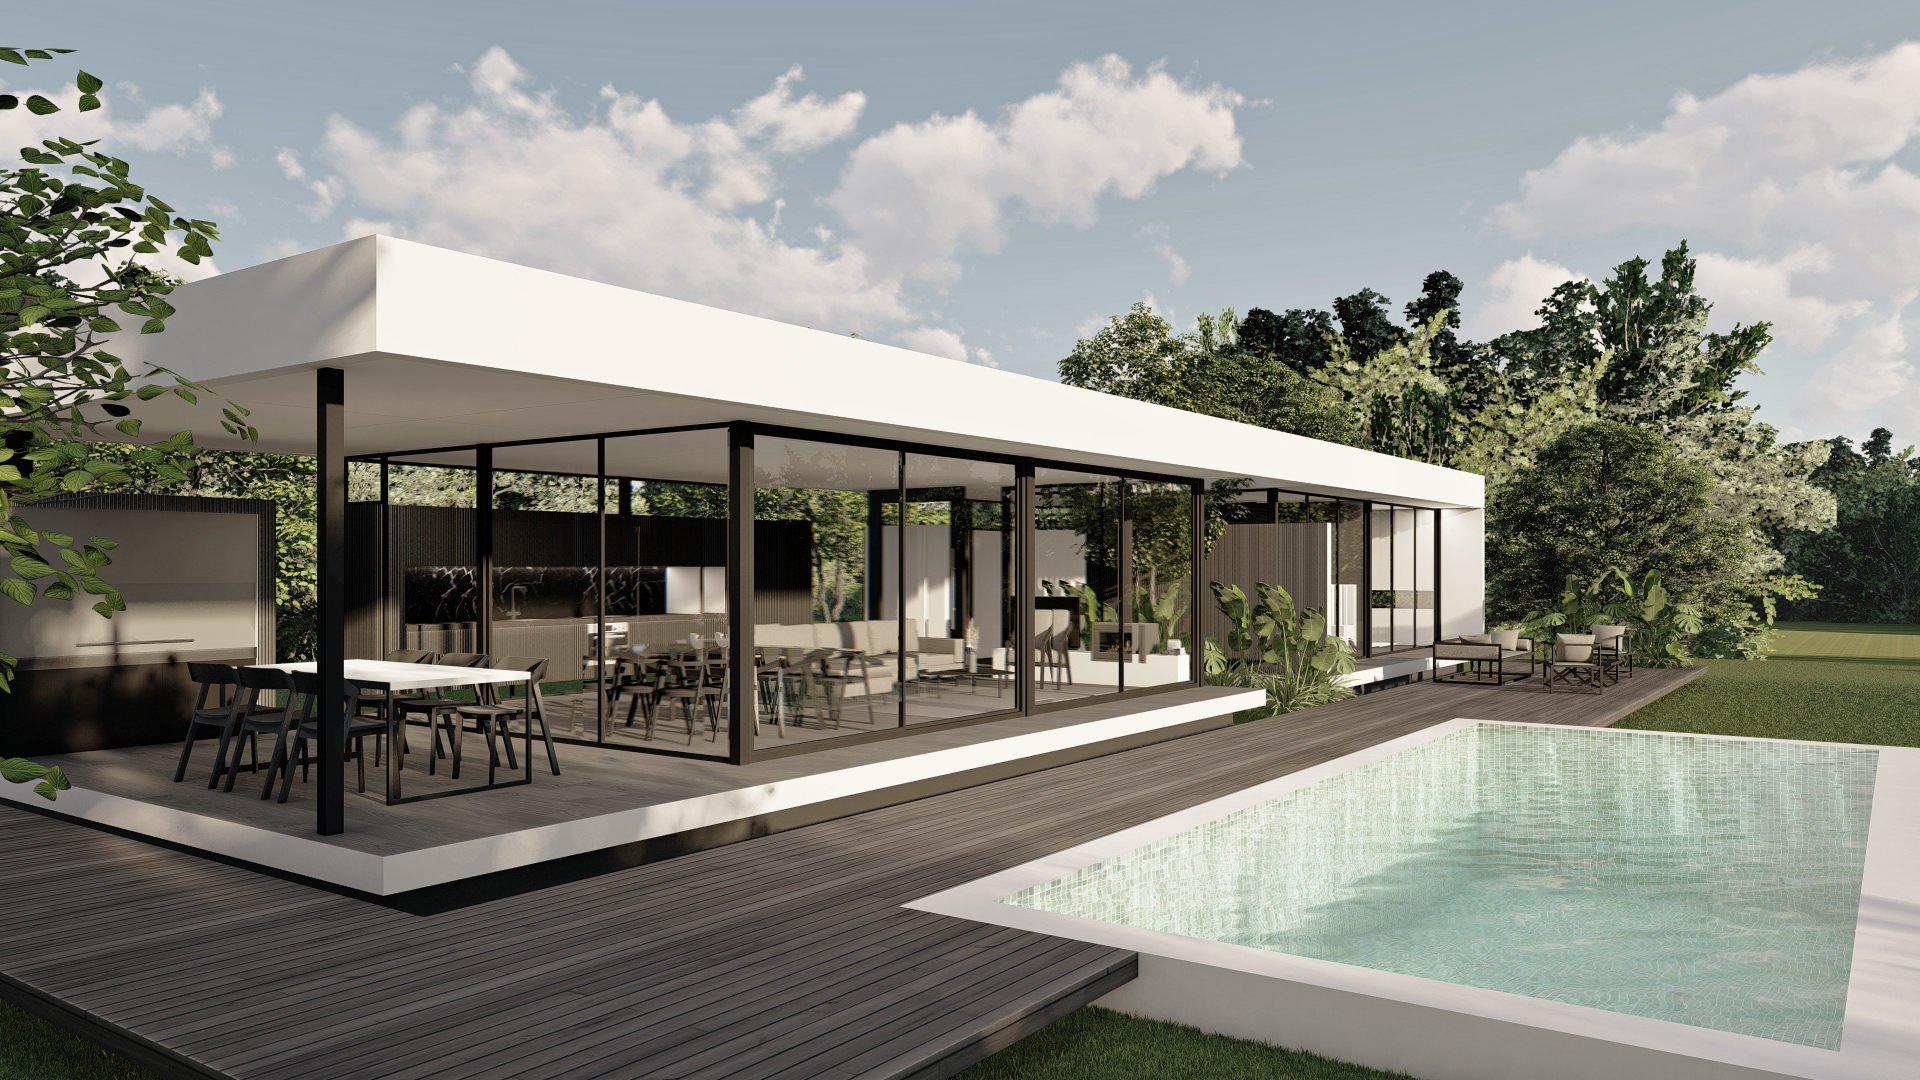
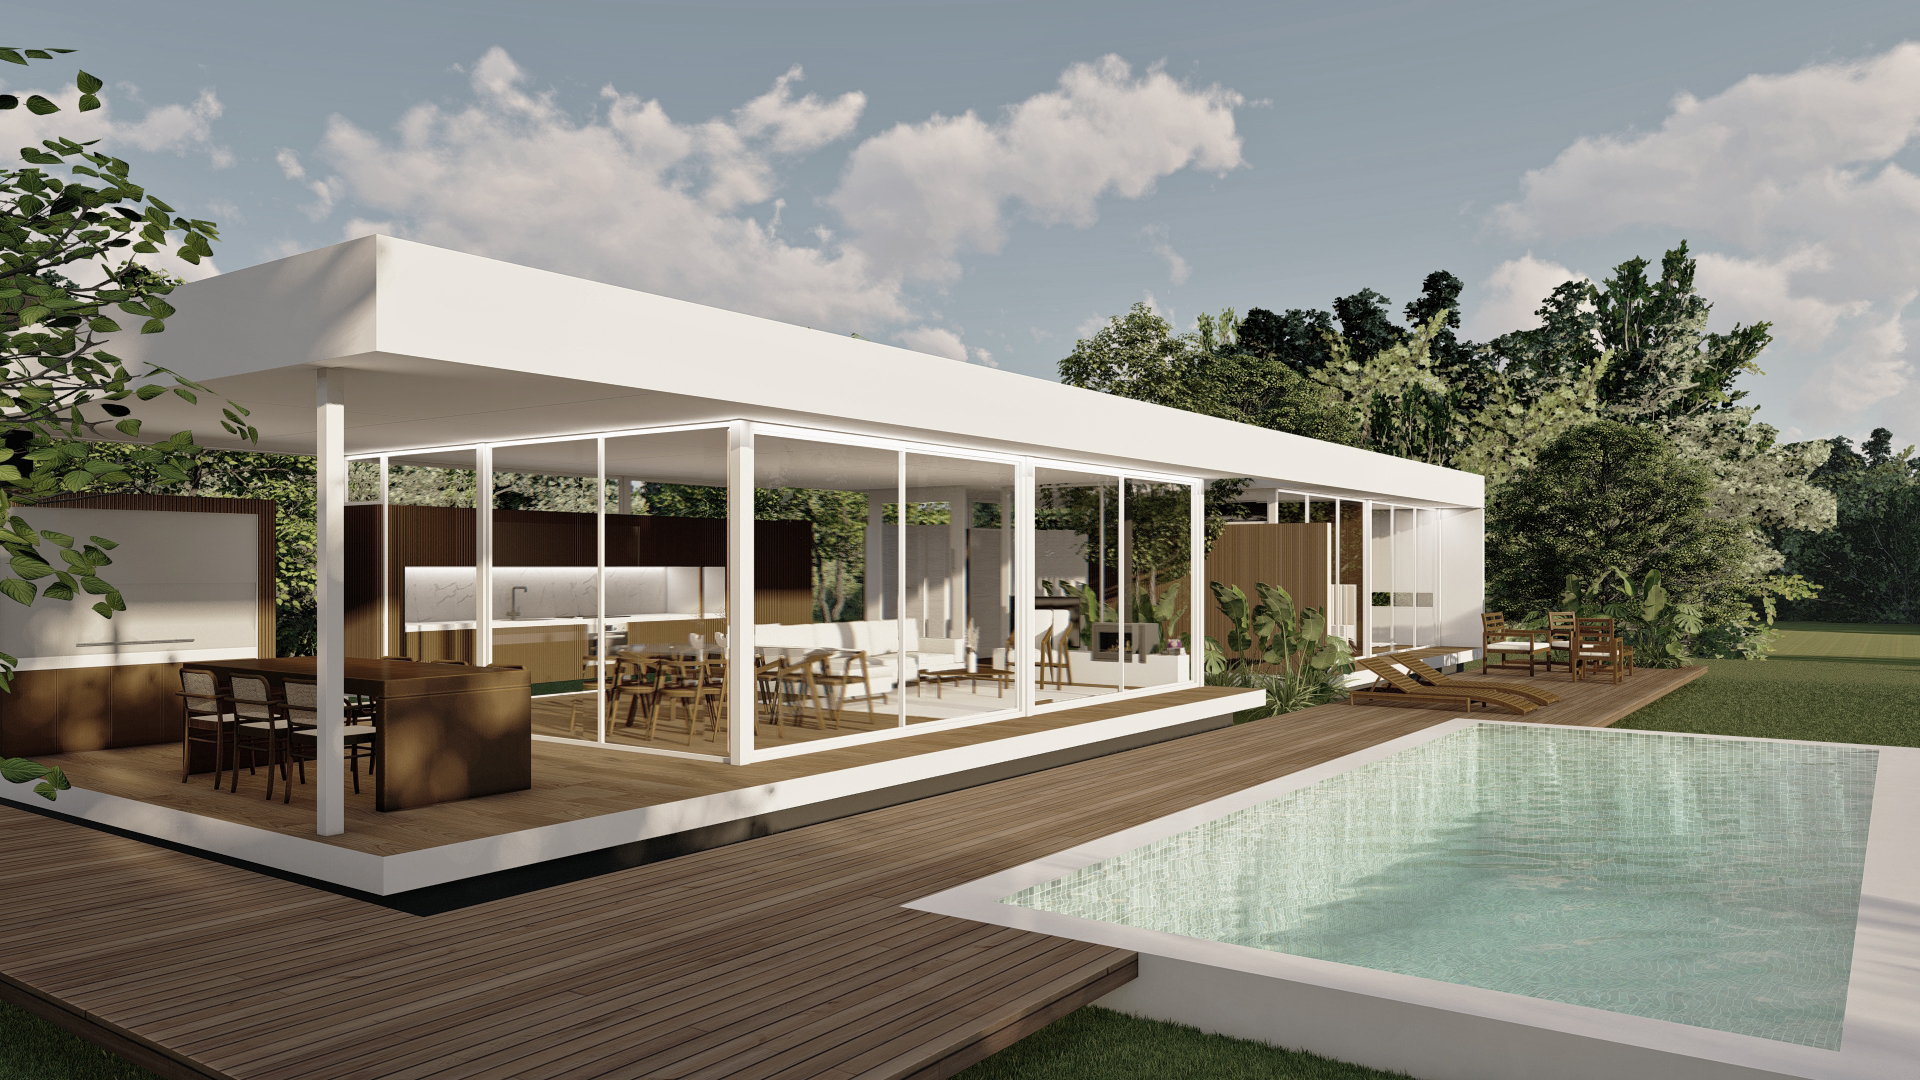
se agrego un nuevo material en la seccion de personalizacion

Changed region(s): [[0.0, 0.3056, 0.875, 0.7944]]

diff --git a/style.css b/style.css
@@ -3,7 +3,7 @@
 @import url('https://fonts.googleapis.com/css2?family=Inter:wght@100;200;300;400;500;600&display=swap');
 @import url('http://fonts.cdnfonts.com/css/sf-pro-display');
 @import url('https://fonts.googleapis.com/css2?family=Poppins:wght@400;500;600;700&family=Ubuntu:wght@400;500;700&display=swap');
-@import url('https://fonts.googleapis.com/css2?family=Inter:wght@200&family=Roboto:wght@300&display=swap');
+@import url('https://fonts.googleapis.com/css2?family=Inter:wght@200&family=Roboto:wght@300;400;500;600;700&display=swap');
 
 html{
     scroll-behavior: smooth;
@@ -189,7 +189,7 @@ header {
     font-size: 1.1em;
     color: #fff;
     margin: 20px 0;
-    font-weight: 400;
+    font-weight: 300;
     max-width: 900px;
 }
 
@@ -416,6 +416,10 @@ section .title::after{
     transition: 2s;
 }
 
+#slide5:checked~#slides .slide_5 {
+    opacity: 1;
+    transition: 2s;
+}
 #slides .slide {
     width: 100%;
     float: left;
@@ -476,12 +480,21 @@ section .title::after{
     object-fit: contain;
     background-position: center;
 }
+#slides .slide_5 {
+    opacity: 0;
+    position: absolute;
+    background-image: url(images/mat5.jpg);
+    max-width: 100%;
+    height: 650px;
+    object-fit: contain;
+    background-position: center;
+}
 
 #slide1:checked~#controls label:nth-child(2),
 #slide2:checked~#controls label:nth-child(3),
 #slide3:checked~#controls label:nth-child(4),
-#slide4:checked~#controls label:nth-child(1) {
-   /* background: url(https://image.flaticon.com/icons/svg/130/130884.svg) no-repeat; */
+#slide4:checked~#controls label:nth-child(5),
+#slide5:checked~#controls label:nth-child(1){
     float: right;
     margin: 0 -50px 0 0;
     display: block;
@@ -490,12 +503,13 @@ section .title::after{
 #slide1:checked~#controls label:nth-last-child(2),
 #slide2:checked~#controls label:nth-last-child(3),
 #slide3:checked~#controls label:nth-last-child(4),
-#slide4:checked~#controls label:nth-last-child(1) {
-/*  background: url(https://image.flaticon.com/icons/svg/130/130882.svg) no-repeat;*/
+#slide4:checked~#controls label:nth-last-child(5),
+#slide5:checked~#controls label:nth-last-child(1) {
     float: left;
     margin: 0 0 0 -50px;
     display: block;
 }
+
 #bulletbox {
     border: solid green;
     padding: 10px 0;
@@ -510,11 +524,13 @@ section .title::after{
     position: absolute;
     color: white;
     font-size: 10px;
+    font-weight: 100;
     letter-spacing: 3px;
     font-family: Roboto, sans-serif;
 }
 #bullets .tex {
-   margin-left: 80px;
+   font-weight: 600; 
+   margin-left: 82px;
 }
  #bullets #ola {
     opacity: 0;
@@ -529,6 +545,10 @@ section .title::after{
       transition: 0.8s;
   }
    #bullets #olo {
+       opacity: 0;
+       transition: 0.8s;
+   }
+   #bullets #olu {
        opacity: 0;
        transition: 0.8s;
    }
@@ -551,6 +571,10 @@ section .title::after{
     opacity: 1;
     transition: 0.8s;
 }
+#slide5:checked~#bullets #olu {
+    opacity: 1;
+    transition: 0.8s;
+}
 #bullets label {
     display: inline-block;
     width: 16px;
@@ -567,9 +591,9 @@ section .title::after{
 #slide1:checked~#bullets label:nth-child(1),
 #slide2:checked~#bullets label:nth-child(2),
 #slide3:checked~#bullets label:nth-child(3),
-#slide4:checked~#bullets label:nth-child(4) {
+#slide4:checked~#bullets label:nth-child(4),
+#slide5:checked~#bullets label:nth-child(5) {
     border-radius: 20%;
-    background: rgb(199, 67, 67);
 }
 @media screen and (max-width: 900px) {
 

diff --git a/index.html b/index.html
@@ -340,6 +340,7 @@
             <input type="radio" name="slider" id="slide2">
             <input type="radio" name="slider" id="slide3">
             <input type="radio" name="slider" id="slide4">
+            <input type="radio" name="slider" id="slide5">
             <div class="reveal" id="slides">
                 <div id="overflow">
                     <div class="inner">
@@ -360,7 +361,12 @@
                         </div>
                         <div class="slide slide_4">
                             <div class="slide-content">
-                                <p>04</p>Das Graphite
+                                <p>04</p>Das DarkWood
+                            </div>
+                        </div>
+                        <div class="slide slide_5">
+                            <div class="slide-content">
+                                <p>05</p>Das Graphite
                             </div>
                         </div>
                     </div>
@@ -371,18 +377,21 @@
                 <label for="slide2"></label>
                 <label for="slide3"></label>
                 <label for="slide4"></label>
+                <label for="slide5"></label>
             </div>
             <div id="bullets">
                 <label style="background: #ffffff;" for="slide1"></label>
                 <label style="background: #d4d0c8;" for="slide2"></label>
                 <label style="background: #ba9b6c;" for="slide3"></label>
-                <label style="background: #3d3831;" for="slide4"></label>
+                <label style="background: #856c48;" for="slide4"></label>
+                <label style="background: #3d3831;" for="slide5"></label>
                 <a style=" color:white; letter-spacing: 3px;">
                     ACABADO | </a>
                 <a class="tex" id="ola">Das White</a>
                 <a class="tex" id="ole">Das Grey</a>
                 <a class="tex" id="oli">Das Wood</a>
-                <a class="tex" id="olo">Das Graphite</a>
+                <a class="tex" id="olo">Das DarkWood</a>
+                <a class="tex" id="olu">Das Graphite</a>
             </div>
         </div>
         <hr class="move" style=" margin-left: 45%;margin-top: 20px; width:10%; text-align: center;" size="1">
